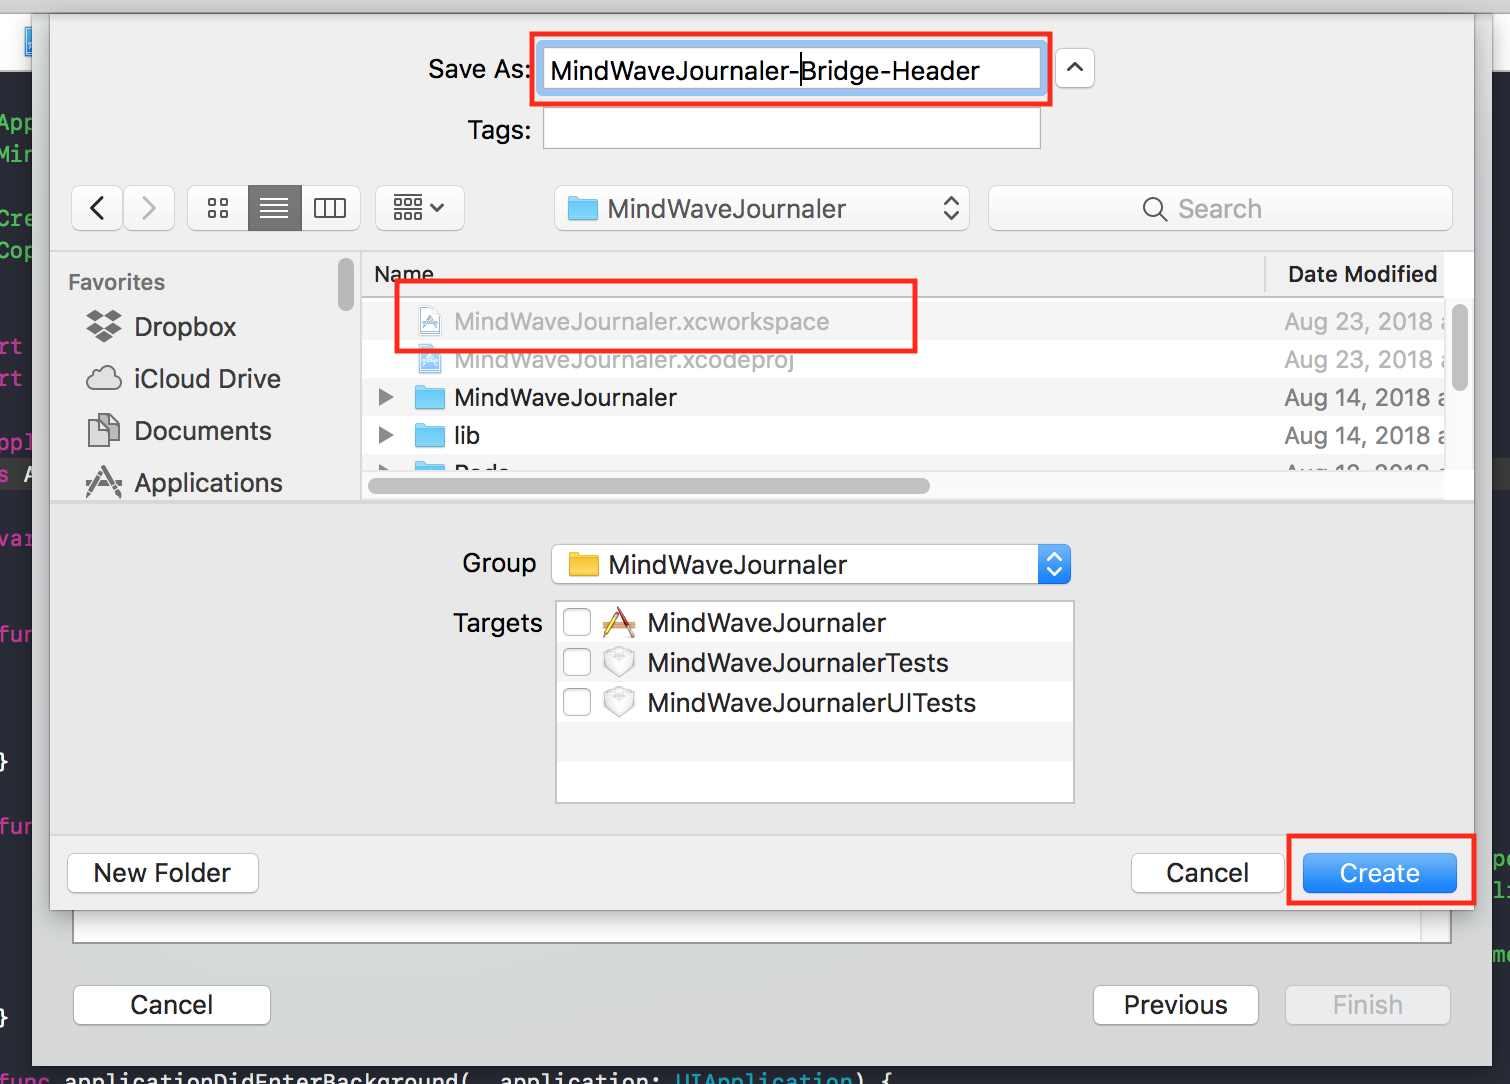
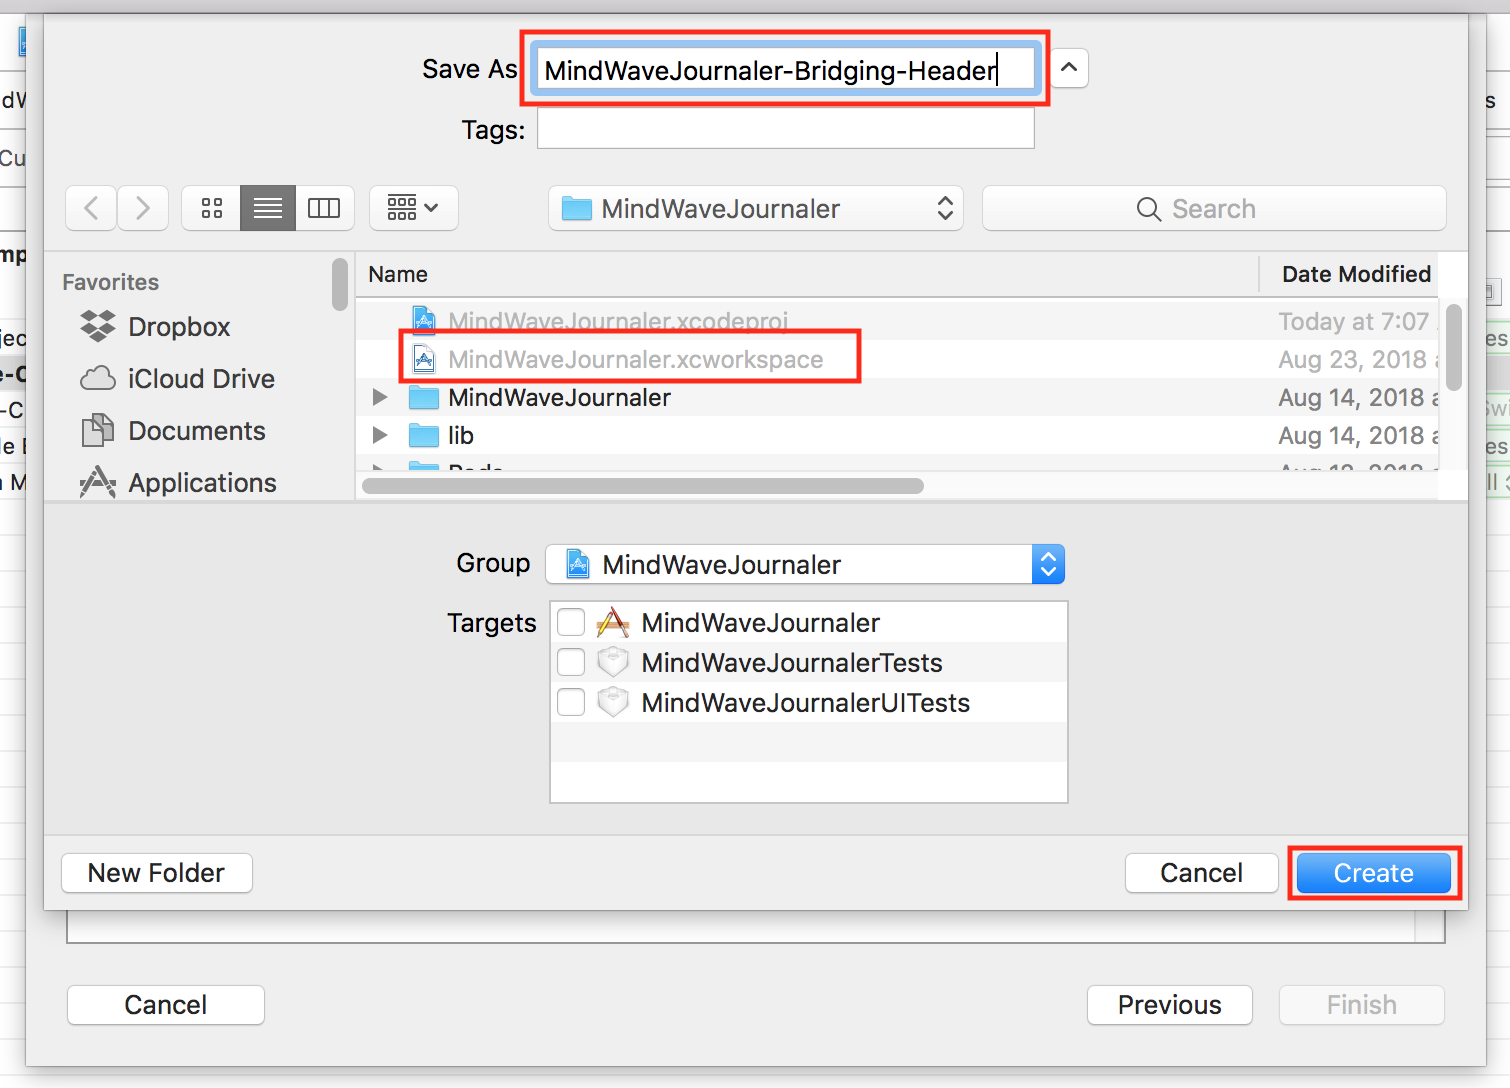
Blogging 2018-08-27

diff --git a/_posts/1900-08-12-eeg-record-remote-storage.md b/_posts/1900-08-12-eeg-record-remote-storage.md
@@ -243,7 +243,7 @@ Then select `Header` and click `Next`.
 
 ![bridge-header-file](https://ladvien.com/images/bridge-header-setup-02.png)
 
-Name the file `YourProjectName-Bridge-Header` and **make sure the file is saved to the same folder which contains the `.xcworkspace` file**, then click `Create`.
+Name the file `YourProjectName-Bridging-Header` and **make sure the file is saved to the same folder which contains the `.xcworkspace` file**, then click `Create`.
 
 ![bridge-header-file](https://ladvien.com/images/bridge-header-setup-03.png)
 
